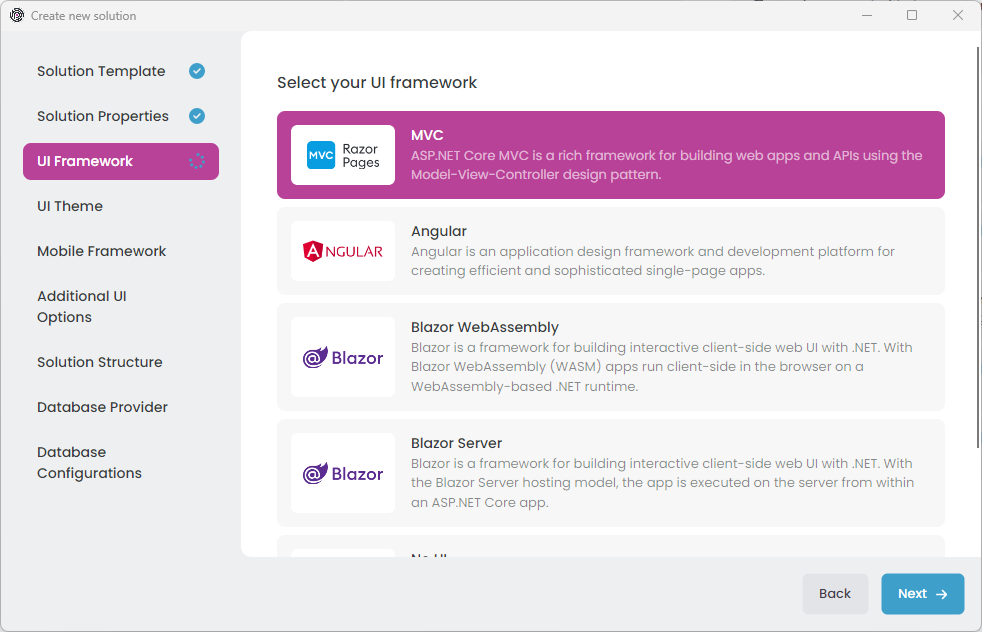
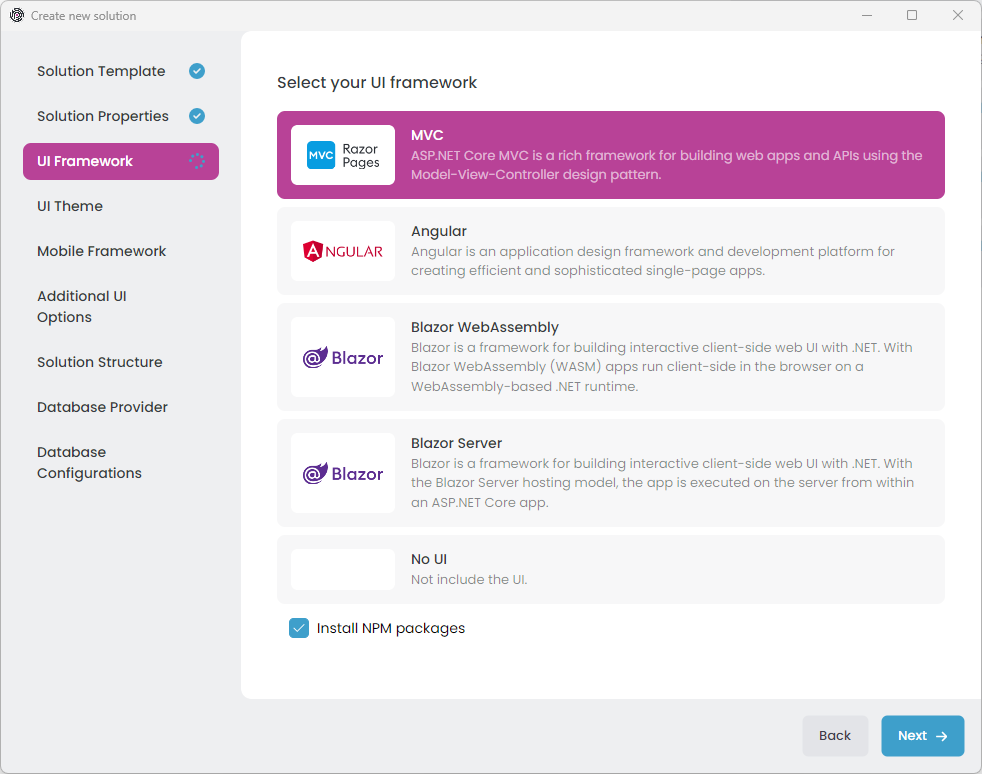
ui-framework image changed

diff --git a/en/studio/quick-starts/layered-web-application.md b/en/studio/quick-starts/layered-web-application.md
@@ -1,5 +1,14 @@
 # Quick Start: Creating a Layered Web Application with ABP Studio
 
+````json
+//[doc-params]
+{
+    "UI": ["MVC", "Blazor", "BlazorServer", "NG", "None"],
+    "DB": ["EF", "Mongo"],
+    "Tiered": ["Yes", "No"]
+}
+````
+
 Welcome to ABP Studio. In this quick start guide, you will learn how to create and run a layered (and potentially modular) web application using ABP Studio.
 
 ## Creating a New Solution
@@ -24,7 +33,17 @@ Then select an *output folder* to create your solution. The *Create solution fol
 
 Once your configuration is done, click the *Next* button to navigate to the *UI Framework* selection:
 
-![abp-studio-new-solution-dialog-ui-framework](images/abp-studio-new-solution-dialog-ui-framework.png)
+{{ if UI == "MVC" }}
+![abp-studio-new-solution-dialog-ui-framework](images/abp-studio-new-solution-dialog-ui-framework-mvc.png)
+{{ else if UI == "Blazor" }}
+![abp-studio-new-solution-dialog-ui-framework](images/abp-studio-new-solution-dialog-ui-framework-blazor.png)
+{{ else if UI == "BlazorServer" }}
+![abp-studio-new-solution-dialog-ui-framework](images/abp-studio-new-solution-dialog-ui-framework-blazor-server.png)
+{{ else if UI == "NG" }}
+![abp-studio-new-solution-dialog-ui-framework](images/abp-studio-new-solution-dialog-ui-framework-angular.png)
+{{ else if UI == "None" }}
+![abp-studio-new-solution-dialog-ui-framework](images/abp-studio-new-solution-dialog-ui-framework-no-ui.png)
+{{ end }}
 
 Here, you see all the possible UI options supported by that startup solution template. You can pick your favorite one.
 
